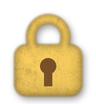
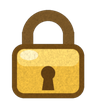
A golden padlock with an outline for the shop locks; positions set by code become the items' rest positions (the wiggle no longer pulls the coconut back onto the station)

diff --git a/Assets/Scripts/Utils/FixedStation.cs b/Assets/Scripts/Utils/FixedStation.cs
@@ -60,7 +60,8 @@ public static class FixedStation
             var halfW = fr.z * b.size.x / 2f; var halfH = fr.w * b.size.y / 2f;
             var dx = t.position.x - dc.x; var dy = t.position.y - dc.y;                       // the pivot's offset from the drawn centre
             var nudge = i == 1 && machine != null ? new Vector2(-0.10f, -0.06f) : Vector2.zero;   // the cups a little down and left, deeper on the tray (owner, 16 October)
-            t.position = new Vector3(x + halfW + dx + nudge.x, feetY + halfH + dy + nudge.y, t.position.z);
+            var target = new Vector3(x + halfW + dx + nudge.x, feetY + halfH + dy + nudge.y, t.position.z);
+            var tdrag = t.GetComponent<DraggableFood>(); if (tdrag != null) tdrag.SetRestPosition(target); else t.position = target;
             right = x + 2f * halfW; top = Mathf.Max(top, feetY + 2f * halfH);
             x = right + Gap;
         }
@@ -112,7 +113,8 @@ public static class FixedStation
                     it.transform.position = p;
                     if (!Touches(it.transform, Radius(it), fixedParts, live, it)) { best = p; bestD = d; }
                 }
-            it.transform.position = best ?? start;
+            var dest = best ?? start; var drag = it.GetComponent<DraggableFood>();
+            if (drag != null) drag.SetRestPosition(dest); else it.transform.position = dest;
             if (best != null) Debug.Log($"FixedStation: moved {it.GetFoodType()} off the station to {best.Value}");
         }
     }

diff --git a/Assets/Scripts/ItemsAndOrders/DraggableFood.cs b/Assets/Scripts/ItemsAndOrders/DraggableFood.cs
@@ -556,6 +556,17 @@ public class DraggableFood : MonoBehaviour, IBeginDragHandler, IDragHandler, IEn
         originalPosition = transform.localPosition;
     }
 
+    /// Moves the item by code and makes that its rest position, so the arrangement wiggle (which swings round
+    /// originalPosition) does not pull it back to where the scene put it (18 October: the coconut tray slid back
+    /// onto the ice cream station after being pushed off).
+    public void SetRestPosition(Vector3 world)
+    {
+        world.z = transform.position.z;
+        transform.position = world;
+        originalPosition = transform.localPosition;
+        lastValidPosition = world;
+    }
+
     private void ApplyTouchedVisuals()
     {
         if (spriteRenderer != null) spriteRenderer.color = touchedColor;

diff --git a/Assets/Scripts/Utils/GamePhaseManager.cs b/Assets/Scripts/Utils/GamePhaseManager.cs
@@ -316,7 +316,8 @@ public class GamePhaseManager : MonoBehaviour
                     if (tableLayer != null)
                         position = tableLayer.ClampToTableBounds(position);
 
-                    item.transform.position = position;
+                    var savedDrag = item.GetComponent<DraggableFood>();
+                    if (savedDrag != null) savedDrag.SetRestPosition(position); else item.transform.position = position;   // the rest position too, or the wiggle pulls it back (18 October)
 
                     DebugLog($"Loaded saved position for {item.GetFoodType()}: ({savedPos.x:F2}, {savedPos.y:F2})");
                 }

diff --git a/Assets/Scripts/Shop/ShopManager.cs b/Assets/Scripts/Shop/ShopManager.cs
@@ -560,7 +560,7 @@ public class ShopManager : MonoBehaviour
         var t = scrollDownButton.transform.Find("Lock");
         if (t == null)
         {
-            var sprite = Resources.Load<Sprite>("Map/lock_small");
+            var sprite = Resources.Load<Sprite>("Map/lock_yellow");   // the coloured lock (owner, 18 October)
             if (sprite == null) return;
             var go = new GameObject("Lock", typeof(RectTransform), typeof(Image));
             go.transform.SetParent(scrollDownButton.transform, false);
